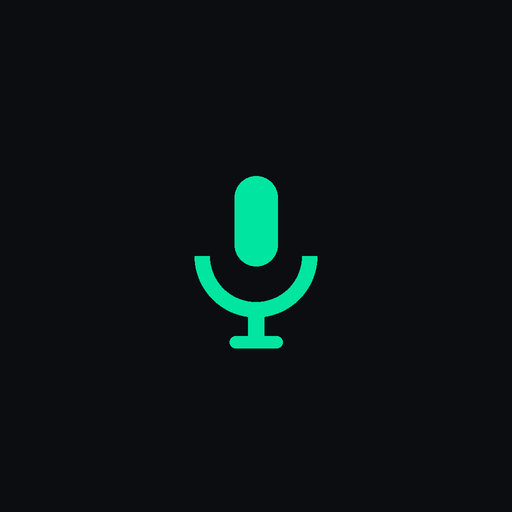
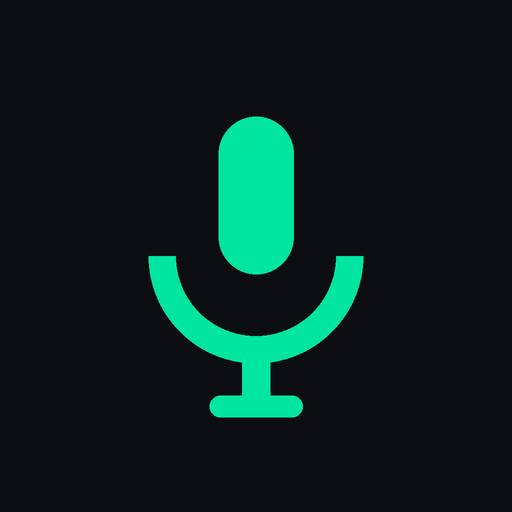
아이콘 마무리 — 마스커블 여백을 실측으로 맞춤
마스커블 아이콘 여백을 0.30 으로 잡아뒀더니 안드로이드 적응형
아이콘에서 마이크가 우표만 하게 나왔다. 안드로이드가 확실히
보여주는 곳은 지름 80% 원 안쪽이므로, 잉크의 최대 반지름을
재서 0.38 에 맞도록 여백을 수렴시킨다 (0.151 → 반지름 0.379).

- 32px 파비콘을 실제로 연결 (만들어놓고 안 쓰고 있었다)
- 아이콘 전부를 서비스워커 선캐시에 포함

Changed region(s): [[0.2812, 0.2188, 0.7188, 0.8438]]

diff --git a/sw.js b/sw.js
@@ -3,7 +3,7 @@
    에셋을 고치면 아래 CACHE 버전을 반드시 올릴 것.
    올리지 않으면 기기는 저장된 옛 코드를 계속 쓴다.
    ───────────────────────────────────────────────────────── */
-const CACHE = 'akpil-v5';
+const CACHE = 'akpil-v6';
 
 const ASSETS = [
   './',
@@ -11,6 +11,8 @@ const ASSETS = [
   './styles.css',
   './app.js',
   './manifest.json',
+  './icons/favicon-32.png',
+  './icons/icon-180.png',
   './icons/icon-192.png',
   './icons/icon-512.png',
 ];

diff --git a/index.html b/index.html
@@ -11,7 +11,8 @@
 <meta name="apple-mobile-web-app-title" content="악필">
 <link rel="manifest" href="manifest.json">
 <link rel="apple-touch-icon" href="icons/icon-180.png">
-<link rel="icon" href="icons/icon-192.png">
+<link rel="icon" sizes="32x32" href="icons/favicon-32.png">
+<link rel="icon" sizes="192x192" href="icons/icon-192.png">
 <link rel="stylesheet" href="styles.css">
 </head>
 <body>

diff --git a/tools/make_icons.py b/tools/make_icons.py
@@ -56,6 +56,30 @@ save(normal, 512, "icon-512.png")
 save(normal, 180, "icon-180.png")   # 아이폰 홈화면
 save(normal, 32, "favicon-32.png")
 
-# 마스커블: 안드로이드가 가장자리를 잘라내므로 안전 영역(중앙 80%) 안에 그린다
-save(draw_mic(0.30), 512, "icon-maskable-512.png")
+# 마스커블: 안드로이드가 가장자리를 잘라낸다. 확실히 보이는 곳은
+# 지름 80% 짜리 원 안쪽 — 즉 중심에서 반지름 0.40 안에 다 들어와야 한다.
+# 여백을 넉넉히 주면 안전하긴 한데 마이크가 우표만 해진다. 실측해서 맞춘다.
+SAFE = 0.38  # 0.40 에 살짝 여유
+
+
+def max_radius(img):
+    """중심에서 잉크까지의 최대 거리 (아이콘 크기 대비 비율)."""
+    px = img.convert("RGB").point(lambda v: 255 if v > 60 else 0).convert("L")
+    x0, y0, x1, y1 = px.getbbox()
+    c = img.width / 2
+    dx = max(c - x0, x1 - c)
+    dy = max(c - y0, y1 - c)
+    return (dx ** 2 + dy ** 2) ** 0.5 / img.width
+
+
+pad = 0.20
+for _ in range(6):  # 몇 번만 돌려도 충분히 수렴한다
+    got = max_radius(draw_mic(pad))
+    if abs(got - SAFE) < 0.004:
+        break
+    pad += (got - SAFE) * 0.9
+
+mask = draw_mic(pad)
+save(mask, 512, "icon-maskable-512.png")
+print(f"  (마스커블 여백 {pad:.3f} → 최대 반지름 {max_radius(mask):.3f}, 한계 0.40)")
 print("완료")
